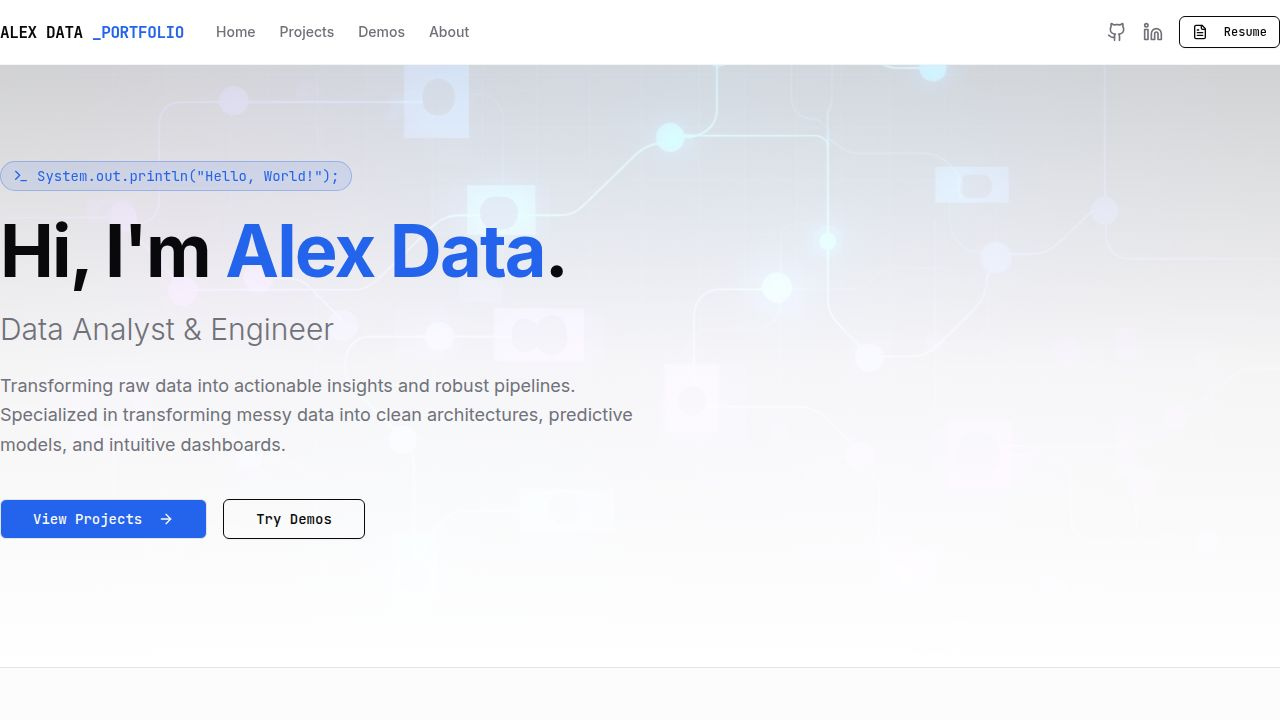
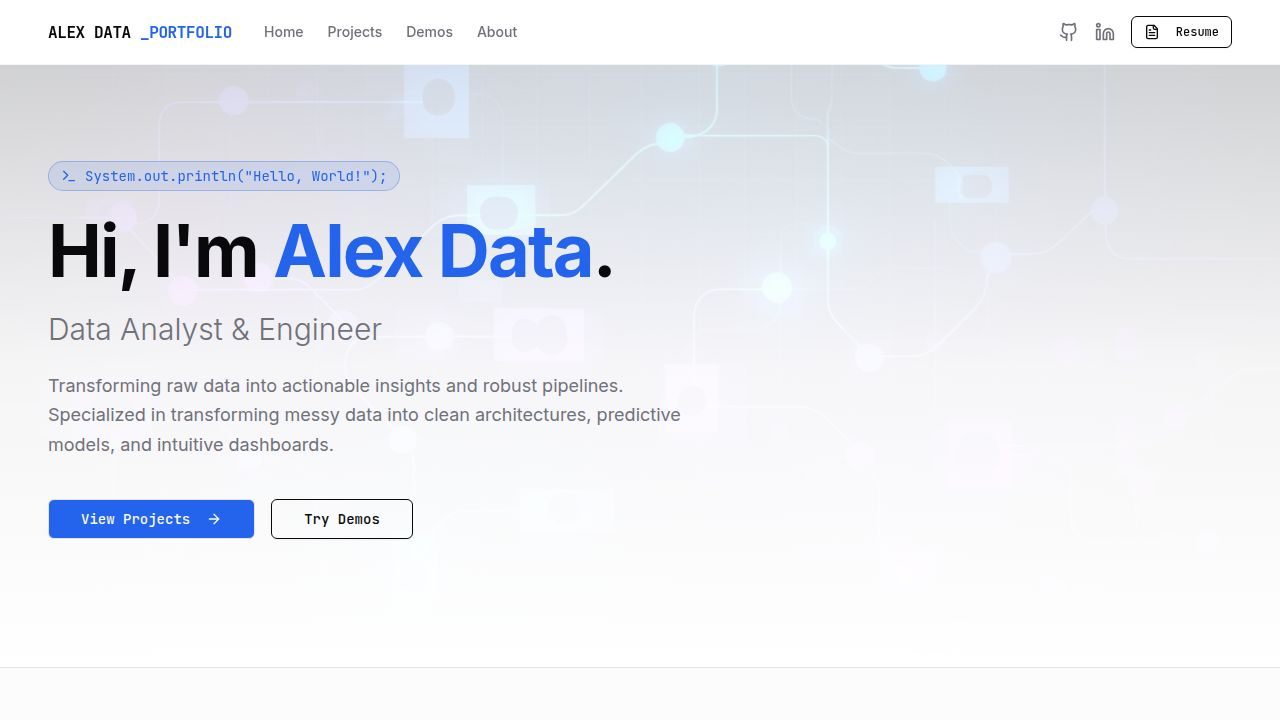
Add generous side margins to all pages for improved readability
Update the container utility class in index.css to include left and right padding, enhancing content spacing.

Replit-Commit-Author: Agent
Replit-Commit-Session-Id: d609ee3c-e277-42ac-bd50-41989afeeb96
Replit-Commit-Checkpoint-Type: full_checkpoint
Replit-Commit-Event-Id: 80c4ed49-365d-43a1-b723-13f2f8c51039
Replit-Commit-Screenshot-Url: https://storage.googleapis.com/screenshot-production-us-central1/3c8d928c-81a3-4824-9fec-8a31bfc5b8b6/d609ee3c-e277-42ac-bd50-41989afeeb96/w33K8jF
Replit-Helium-Checkpoint-Created: true

diff --git a/client/src/index.css b/client/src/index.css
@@ -85,3 +85,9 @@
     @apply bg-background text-foreground font-sans antialiased;
   }
 }
+
+@layer utilities {
+  .container {
+    @apply w-full mx-auto px-6 md:px-12 max-w-7xl;
+  }
+}
